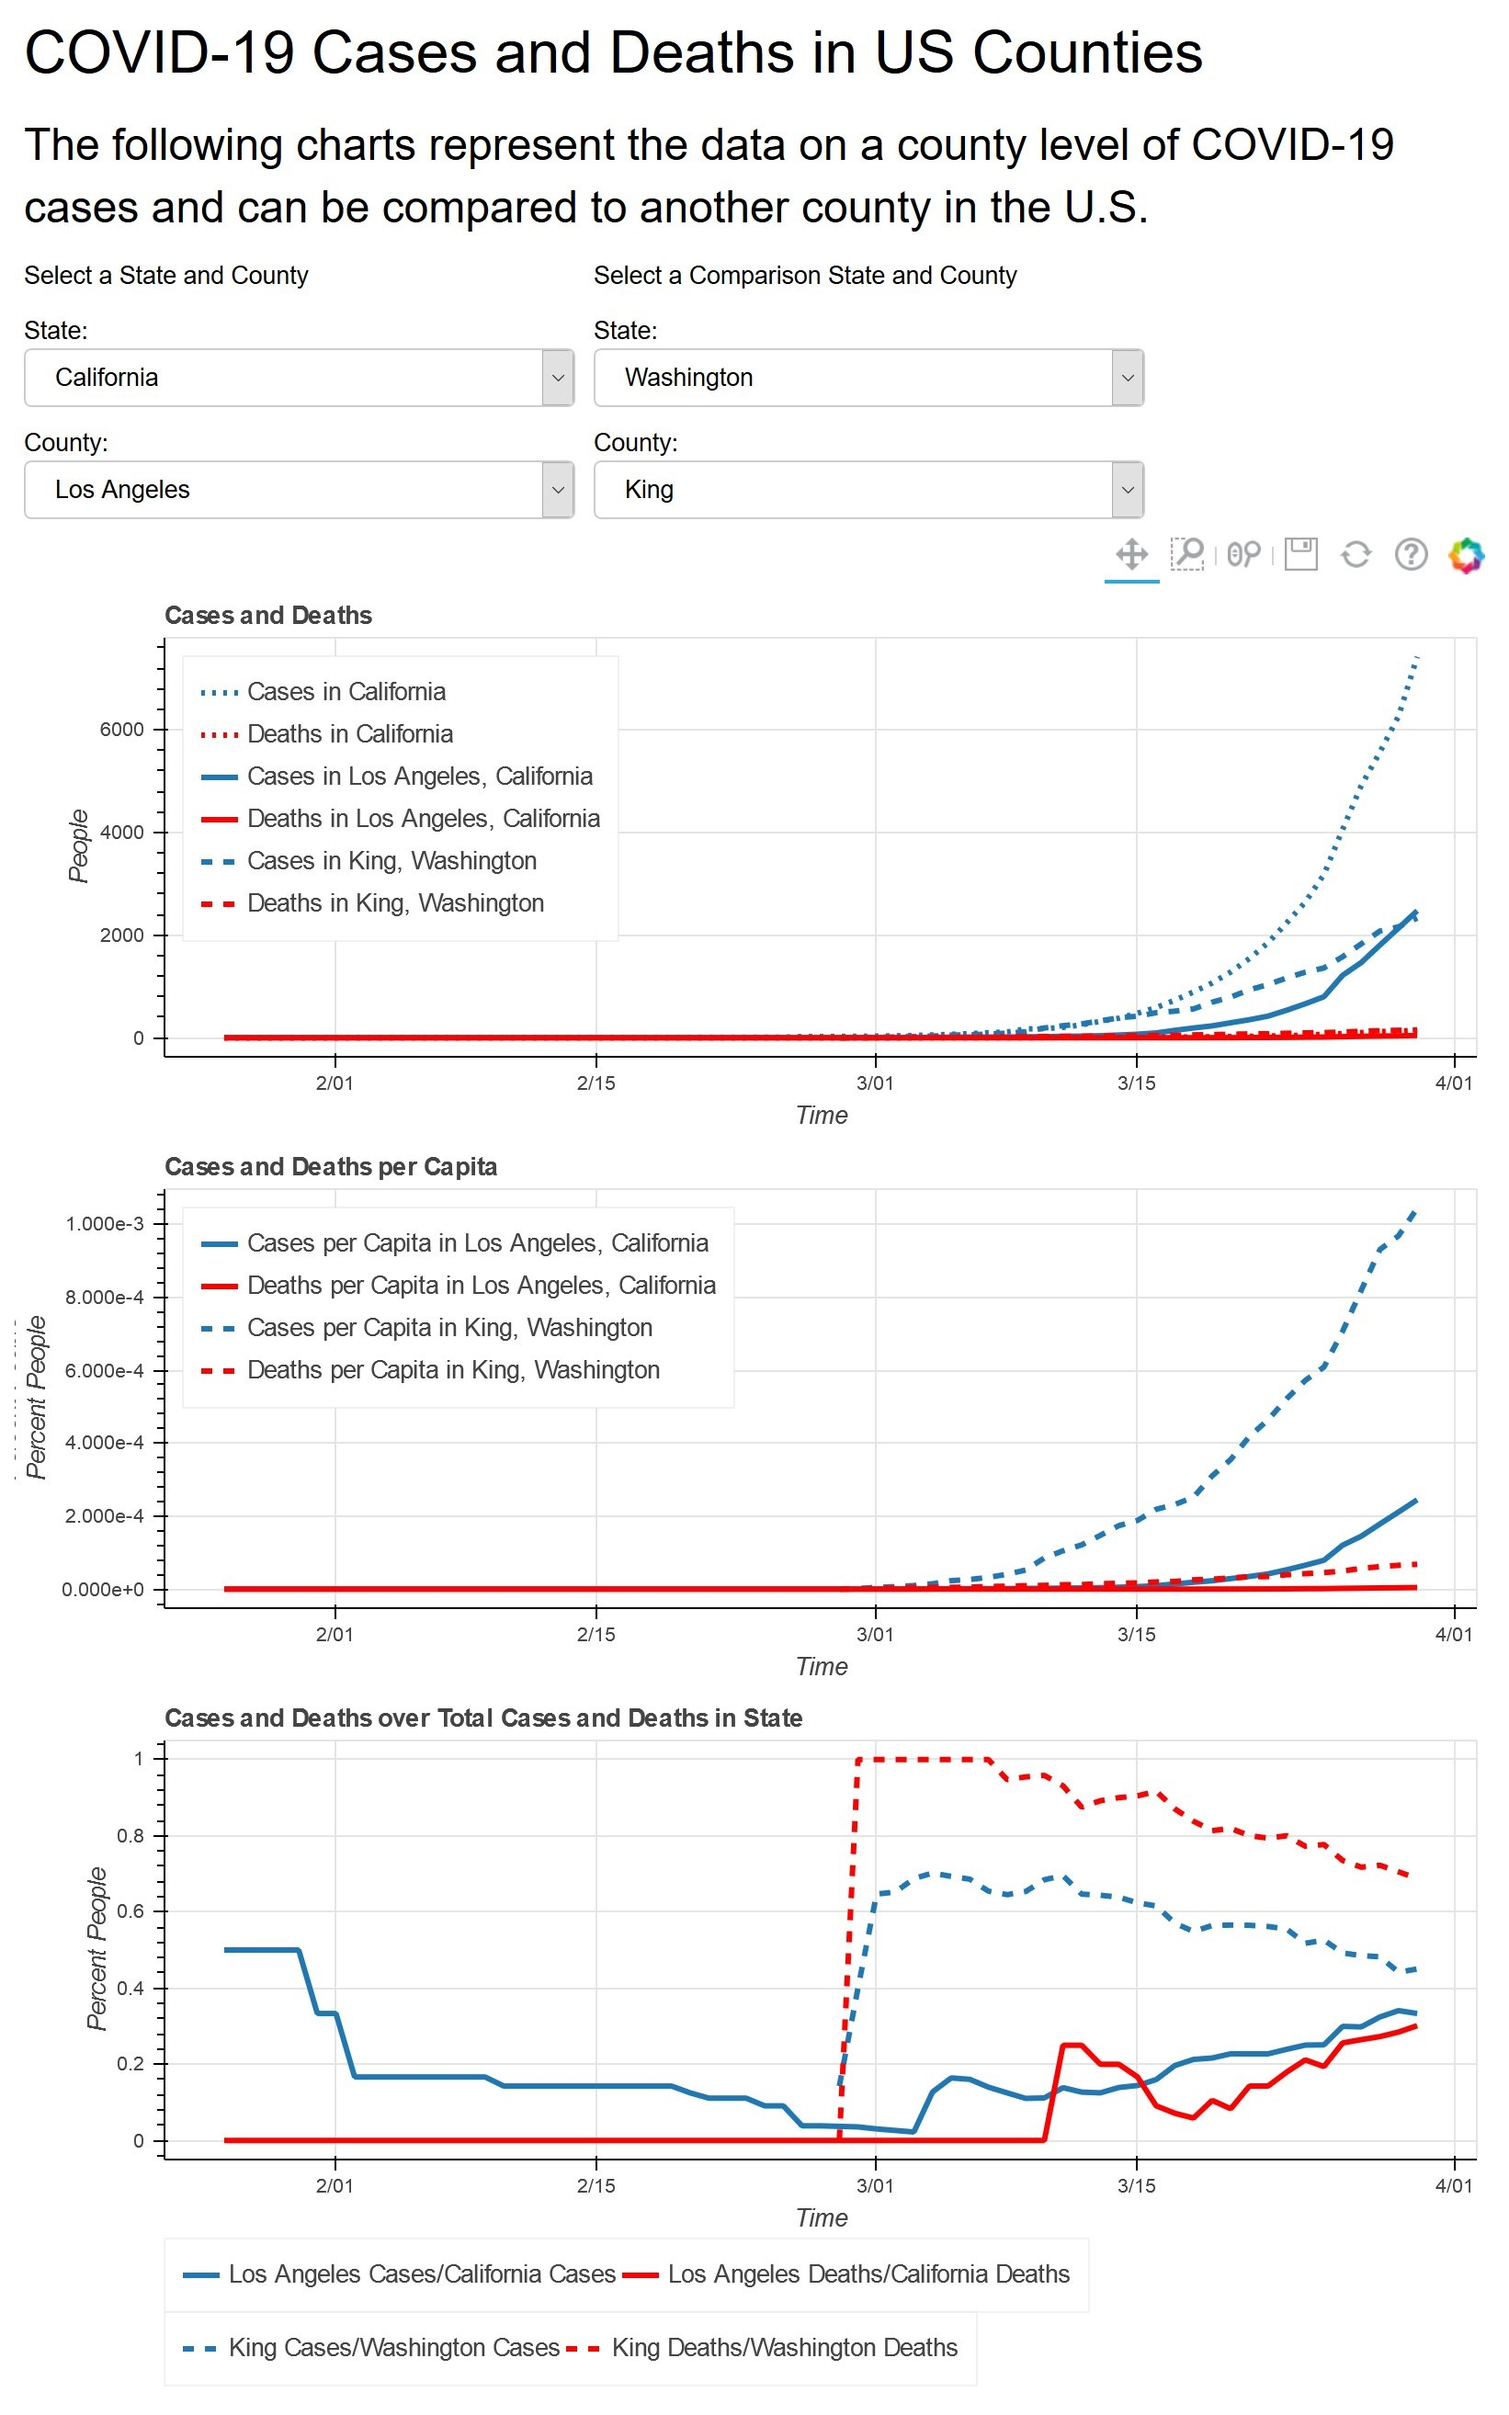
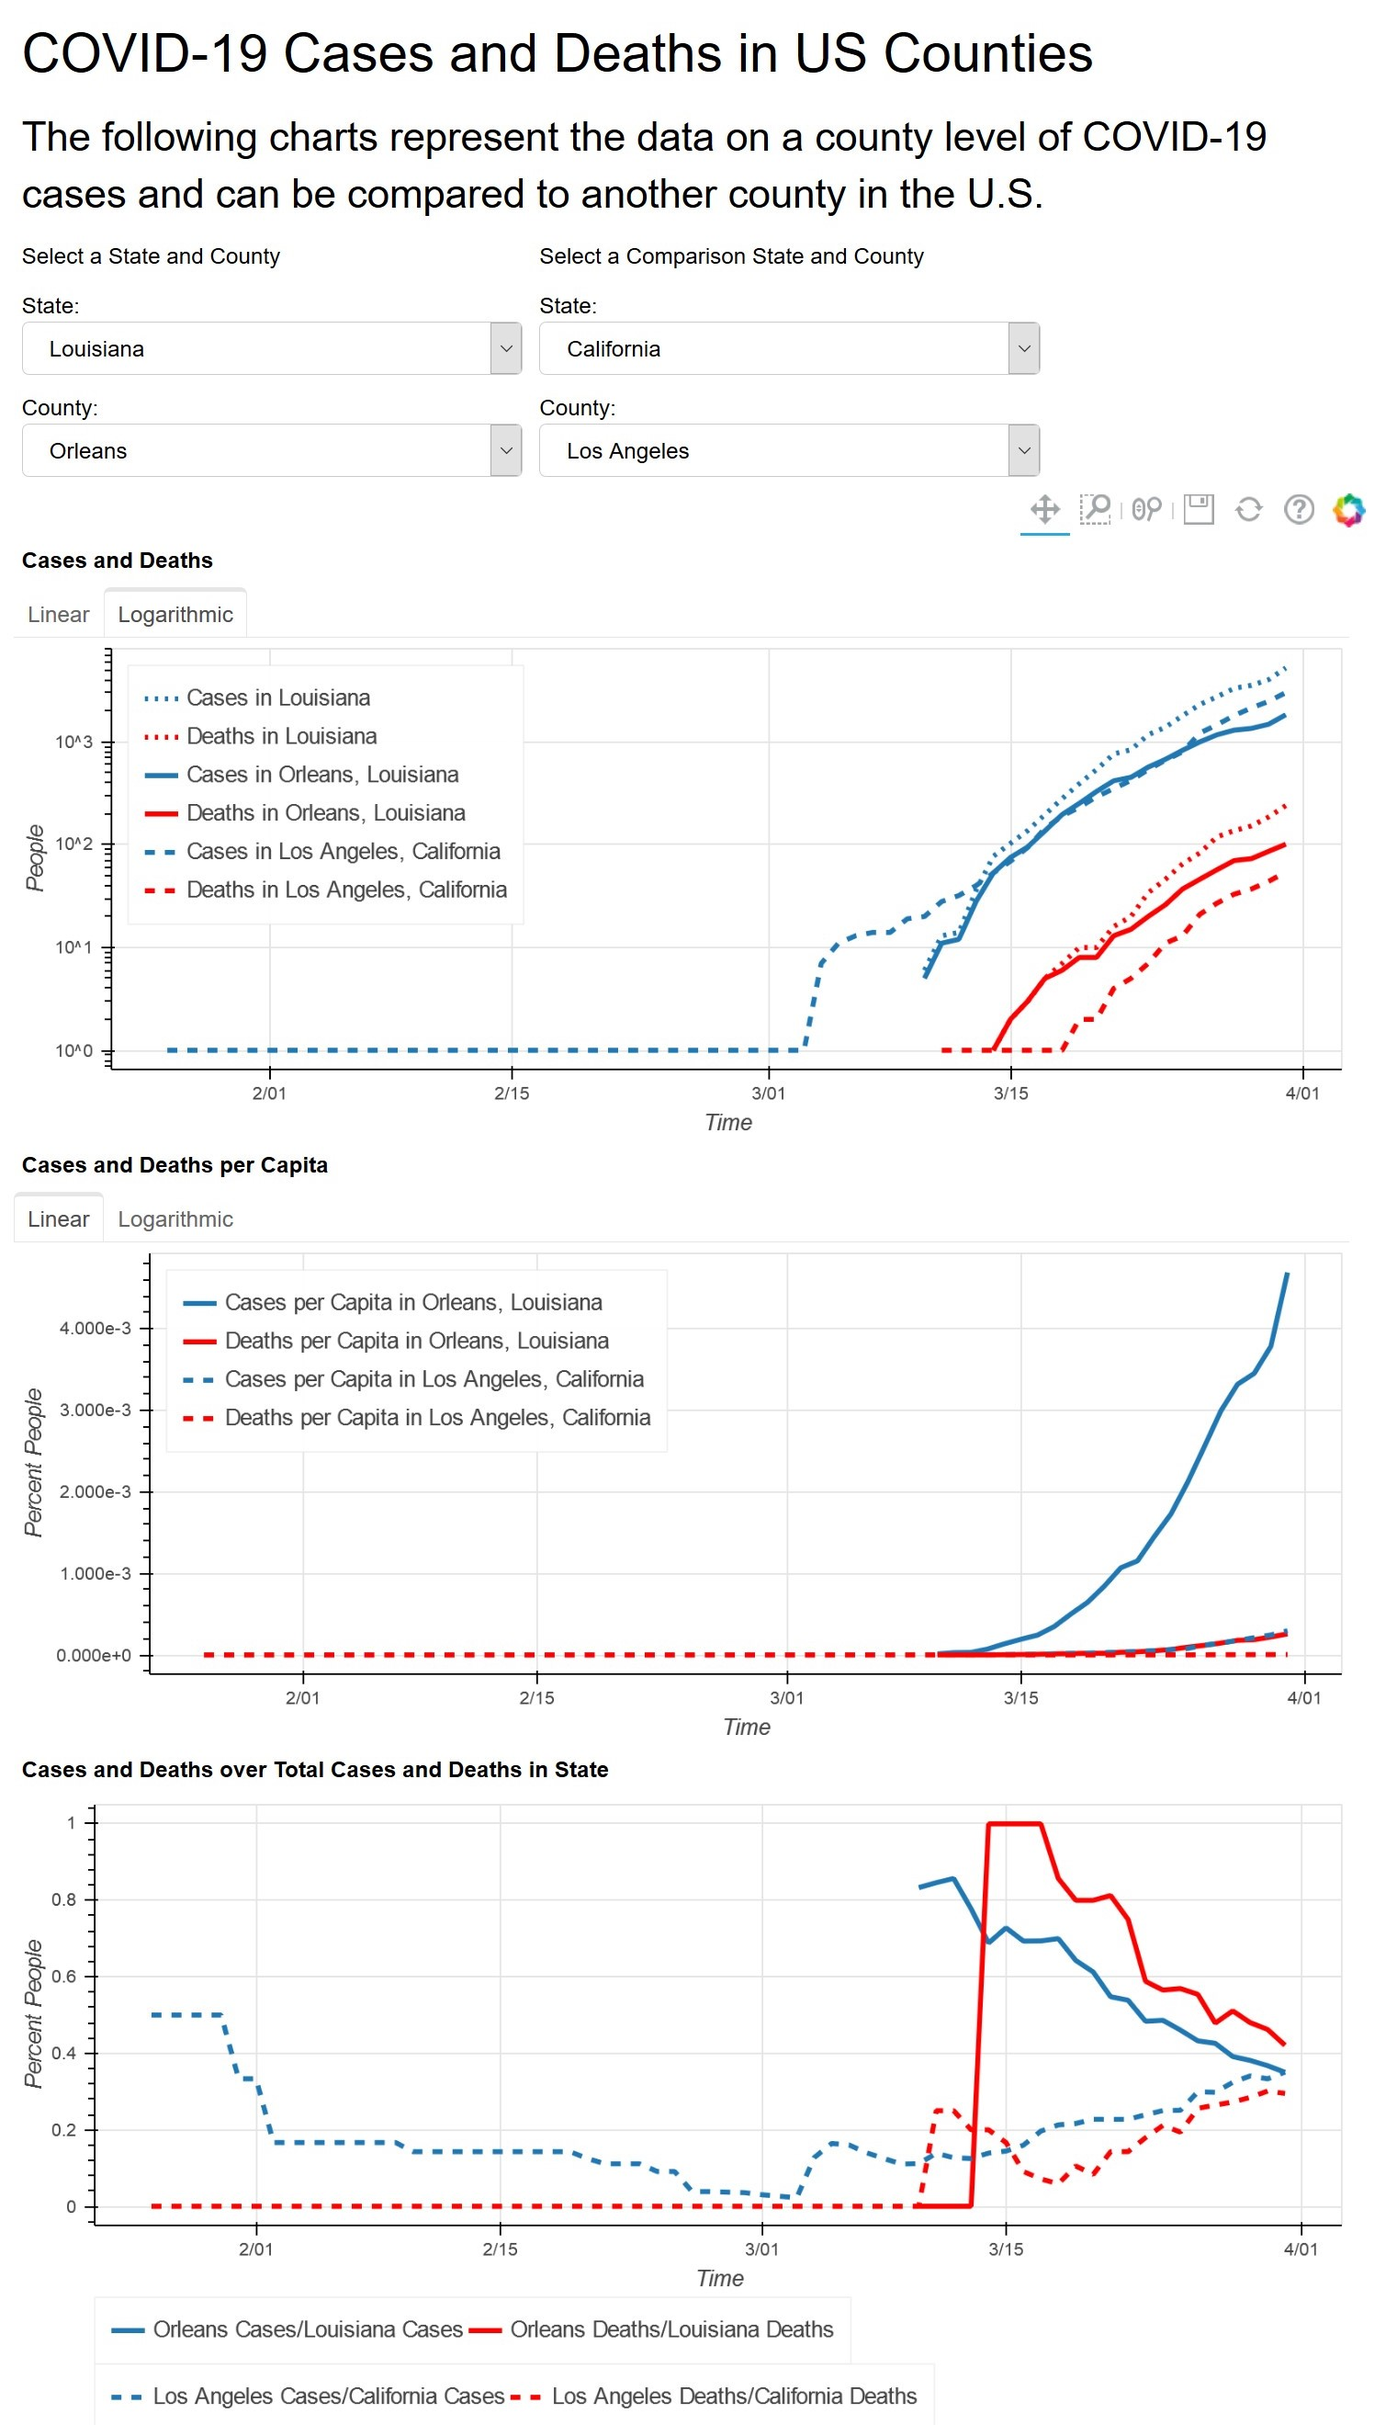
updated README.md and visualization.jpg since new features were added

diff --git a/README.md b/README.md
@@ -55,6 +55,9 @@ pulled by the Bokeh server every 6 hours.
 Four drop down menus allow you to select the state and county (and comparison state and county) of Covid-19 cases. All 
 plots data and legends will be automatically updated to match your selection. 
 
+Some plots can also be viewed on Logarithmic scale (instead of the usual linear scale), this makes understanding the
+trends of the plots a little easier.
+
 Lines can be muted (reduced to 20% opacity) and unmuted by clicking the line in the legend to the right of the graph.
 
 Panning the graphs can be done by clicking and dragging the graph within its borders.
